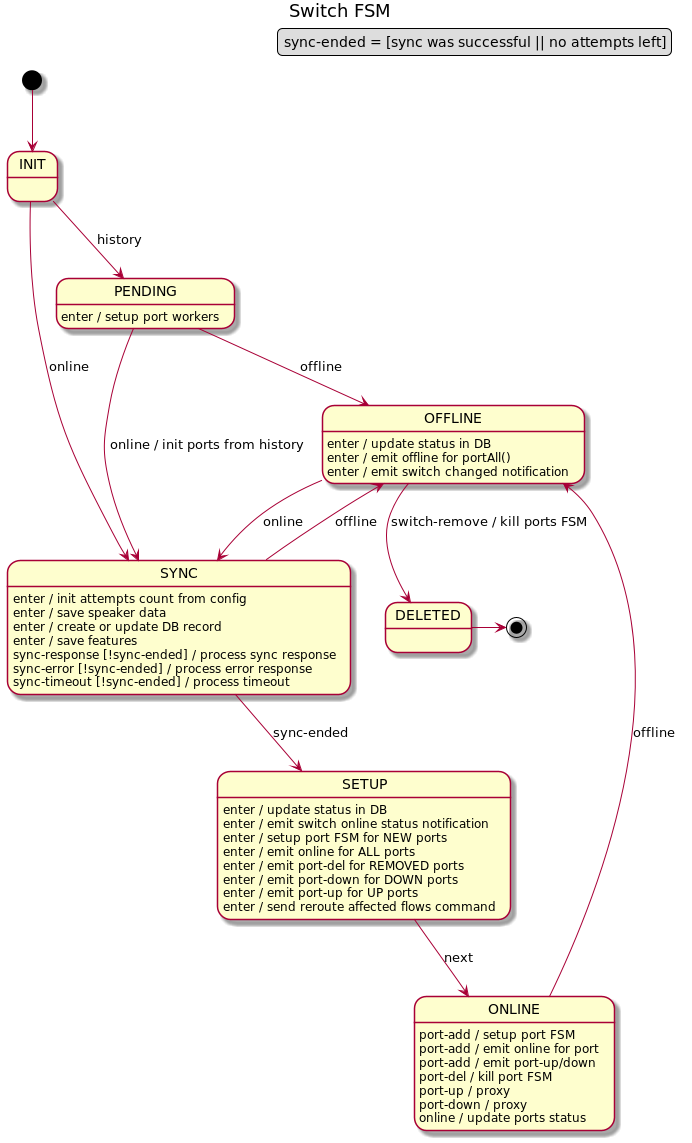
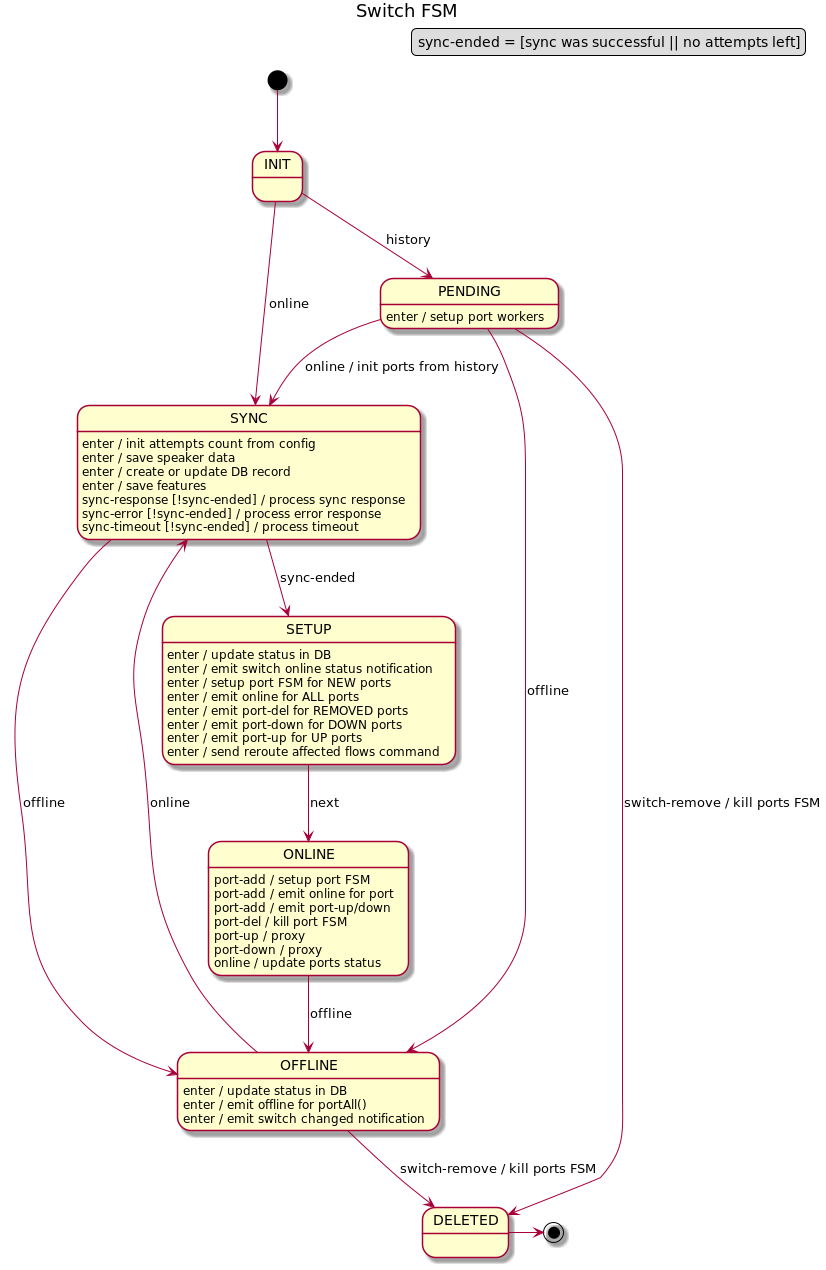
Add Hadnling on Switch Remove from pending state

diff --git a/src-java/network-topology/network-storm-topology/src/main/java/org/openkilda/wfm/topology/network/controller/sw/SwitchFsm.java b/src-java/network-topology/network-storm-topology/src/main/java/org/openkilda/wfm/topology/network/controller/sw/SwitchFsm.java
@@ -501,7 +501,9 @@ public final class SwitchFsm extends AbstractBaseFsm<SwitchFsm, SwitchFsmState, 
             builder.transition().from(SwitchFsmState.PENDING).to(SwitchFsmState.SYNC).on(SwitchFsmEvent.ONLINE)
                     .callMethod("initPortsFromHistory");
             builder.transition().from(SwitchFsmState.PENDING).to(SwitchFsmState.OFFLINE).on(SwitchFsmEvent.OFFLINE);
-
+            builder.transition().from(SwitchFsmState.PENDING).to(SwitchFsmState.DELETED)
+                    .on(SwitchFsmEvent.SWITCH_REMOVE)
+                    .callMethod("removePortsFsm");
 
             // SYNCHRONIZE
             builder.transition().from(SwitchFsmState.SYNC).to(SwitchFsmState.SETUP).on(SwitchFsmEvent.SYNC_ENDED);
